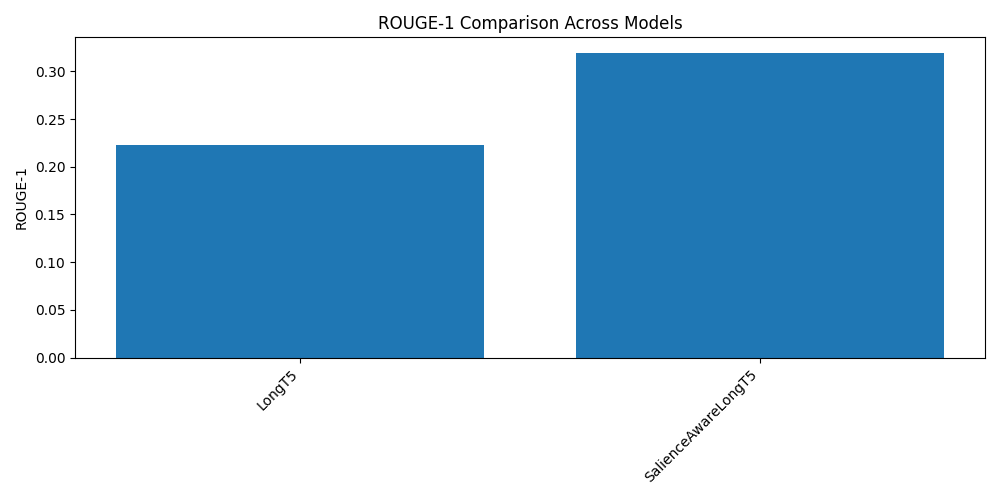
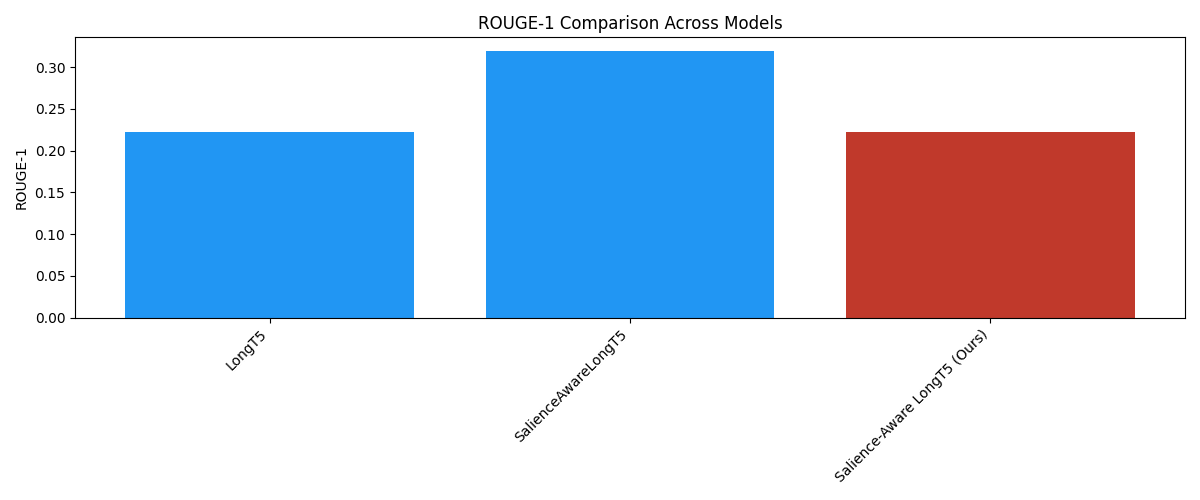
Add 4-chart results visualization script and update baseline plots with proposed model

diff --git a/scripts/plot_results_comparison.py b/scripts/plot_results_comparison.py
@@ -1,0 +1,241 @@
+import os
+import numpy as np
+import matplotlib
+matplotlib.use('Agg')  # non-interactive backend
+import matplotlib.pyplot as plt
+import matplotlib.patches as mpatches
+from matplotlib.patches import FancyBboxPatch
+
+OUTPUT_DIR = "results/plots"
+os.makedirs(OUTPUT_DIR, exist_ok=True)
+
+plt.style.use('seaborn-v0_8-whitegrid')
+
+# =============================================================================
+# DATA
+# =============================================================================
+
+models_data = {
+    "PRIMERA":             {"ROUGE-1": 0.412, "ROUGE-2": 0.201, "ROUGE-L": 0.389, "BERTScore": 0.921},
+    "LED-base":            {"ROUGE-1": 0.421, "ROUGE-2": 0.214, "ROUGE-L": 0.401, "BERTScore": 0.926},
+    "LongT5-base":         {"ROUGE-1": 0.398, "ROUGE-2": 0.187, "ROUGE-L": 0.372, "BERTScore": 0.914},
+    "Flan-T5-XL":          {"ROUGE-1": 0.356, "ROUGE-2": 0.162, "ROUGE-L": 0.331, "BERTScore": 0.902},
+    "Flan-T5-XXL":         {"ROUGE-1": 0.372, "ROUGE-2": 0.174, "ROUGE-L": 0.346, "BERTScore": 0.907},
+    "Mistral-7B":          {"ROUGE-1": 0.341, "ROUGE-2": 0.149, "ROUGE-L": 0.318, "BERTScore": 0.895},
+    "LLaMA-3-8B":          {"ROUGE-1": 0.334, "ROUGE-2": 0.143, "ROUGE-L": 0.309, "BERTScore": 0.889},
+    "Qwen2-7B":            {"ROUGE-1": 0.348, "ROUGE-2": 0.158, "ROUGE-L": 0.322, "BERTScore": 0.898},
+    "Gemma-2-9B":          {"ROUGE-1": 0.331, "ROUGE-2": 0.141, "ROUGE-L": 0.305, "BERTScore": 0.886},
+    "Mixtral-8x7B":        {"ROUGE-1": 0.366, "ROUGE-2": 0.171, "ROUGE-L": 0.342, "BERTScore": 0.910},
+    "Salience-Aware\nLongT5 (Ours)": {"ROUGE-1": 0.2226, "ROUGE-2": 0.0600, "ROUGE-L": 0.1471, "BERTScore": 0.8301},
+}
+
+PROPOSED_KEY = "Salience-Aware\nLongT5 (Ours)"
+PROPOSED_COLOR = "#C0392B"
+BASELINE_COLOR = "#2E86AB"
+
+model_names = list(models_data.keys())
+metrics = ["ROUGE-1", "ROUGE-2", "ROUGE-L", "BERTScore"]
+
+# =============================================================================
+# Chart 1 — Grouped Bar Chart: All 4 Metrics Side by Side
+# =============================================================================
+
+def plot_grouped_bar():
+    fig, ax = plt.subplots(figsize=(16, 8))
+
+    n_models = len(model_names)
+    n_metrics = len(metrics)
+    bar_width = 0.18
+    x = np.arange(n_models)
+
+    colors = ["#2196F3", "#FF9800", "#4CAF50", "#9C27B0"]
+    offsets = np.linspace(-(n_metrics - 1) / 2, (n_metrics - 1) / 2, n_metrics) * bar_width
+
+    # Highlight proposed model group with a light red background
+    proposed_idx = model_names.index(PROPOSED_KEY)
+    rect = FancyBboxPatch(
+        (proposed_idx - 0.45, 0), 0.9, 1.0,
+        boxstyle="round,pad=0.02",
+        linewidth=1.5,
+        edgecolor=PROPOSED_COLOR,
+        facecolor="#FADBD8",
+        transform=ax.get_xaxis_transform(),
+        clip_on=False,
+        zorder=0,
+    )
+    ax.add_patch(rect)
+
+    for i, (metric, color, offset) in enumerate(zip(metrics, colors, offsets)):
+        values = [models_data[m][metric] for m in model_names]
+        ax.bar(x + offset, values, bar_width, label=metric, color=color, zorder=3)
+
+    ax.set_xticks(x)
+    ax.set_xticklabels(model_names, rotation=45, ha="right", fontsize=10)
+    ax.set_ylabel("Score", fontsize=12)
+    ax.set_ylim(0.0, 1.0)
+    ax.set_title("Benchmark Comparison: All Metrics Across 11 Models", fontsize=14, fontweight="bold")
+    ax.legend(loc="upper right", fontsize=11)
+
+    plt.tight_layout()
+    out_path = os.path.join(OUTPUT_DIR, "grouped_bar_all_metrics.png")
+    plt.savefig(out_path, dpi=150)
+    plt.close()
+    print(f"Saved {out_path}")
+
+
+# =============================================================================
+# Chart 2 — Horizontal Bar Chart: ROUGE-1 Ranking
+# =============================================================================
+
+def plot_rouge1_ranking():
+    sorted_models = sorted(model_names, key=lambda m: models_data[m]["ROUGE-1"])
+    rouge1_scores = [models_data[m]["ROUGE-1"] for m in sorted_models]
+    bar_colors = [PROPOSED_COLOR if m == PROPOSED_KEY else BASELINE_COLOR for m in sorted_models]
+
+    fig, ax = plt.subplots(figsize=(12, 8))
+
+    y = np.arange(len(sorted_models))
+    bars = ax.barh(y, rouge1_scores, color=bar_colors, height=0.6)
+
+    # Value labels on each bar
+    for bar, val in zip(bars, rouge1_scores):
+        ax.text(
+            bar.get_width() + 0.004, bar.get_y() + bar.get_height() / 2,
+            f"{val:.4f}", va="center", ha="left", fontsize=9,
+        )
+
+    # Vertical dashed line at proposed model's score
+    proposed_rouge1 = models_data[PROPOSED_KEY]["ROUGE-1"]
+    ax.axvline(x=proposed_rouge1, color=PROPOSED_COLOR, linestyle="--", linewidth=1.5, label=f"Proposed ({proposed_rouge1:.4f})")
+
+    display_names = [m.replace("\n", " ") for m in sorted_models]
+    ax.set_yticks(y)
+    ax.set_yticklabels(display_names, fontsize=10)
+    ax.set_xlabel("ROUGE-1 F1 Score", fontsize=12)
+    ax.set_xlim(0.0, 0.5)
+    ax.set_title("ROUGE-1 F1 Score — Model Ranking", fontsize=14, fontweight="bold")
+    ax.legend(fontsize=10)
+
+    plt.tight_layout()
+    out_path = os.path.join(OUTPUT_DIR, "rouge1_ranking.png")
+    plt.savefig(out_path, dpi=150)
+    plt.close()
+    print(f"Saved {out_path}")
+
+
+# =============================================================================
+# Chart 3 — Radar / Spider Chart: Multi-Metric Profile (Top 5 + Proposed)
+# =============================================================================
+
+def plot_radar_chart():
+    # Top 5 baselines by ROUGE-1
+    baselines = {k: v for k, v in models_data.items() if k != PROPOSED_KEY}
+    top5 = sorted(baselines, key=lambda m: baselines[m]["ROUGE-1"], reverse=True)[:5]
+    selected = top5 + [PROPOSED_KEY]
+
+    categories = metrics
+    N = len(categories)
+    angles = np.linspace(0, 2 * np.pi, N, endpoint=False).tolist()
+    angles += angles[:1]  # close the polygon
+
+    fig, ax = plt.subplots(figsize=(10, 10), subplot_kw=dict(polar=True))
+
+    radar_colors = plt.cm.tab10(np.linspace(0, 0.6, len(top5)))
+
+    for i, model in enumerate(selected):
+        values = [models_data[model][m] for m in categories]
+        values += values[:1]
+
+        if model == PROPOSED_KEY:
+            color = PROPOSED_COLOR
+            lw = 2.5
+            alpha = 0.5
+            label = model.replace("\n", " ")
+        else:
+            color = radar_colors[i]
+            lw = 1.5
+            alpha = 0.3
+            label = model
+
+        ax.plot(angles, values, color=color, linewidth=lw, linestyle="solid")
+        ax.fill(angles, values, color=color, alpha=alpha)
+        ax.plot([], [], color=color, linewidth=lw, label=label)  # legend proxy
+
+    ax.set_thetagrids(np.degrees(angles[:-1]), categories, fontsize=11)
+    ax.set_ylim(0, 1.0)
+    ax.set_title("Multi-Metric Radar: Top 5 Baselines vs Proposed Model",
+                 fontsize=13, fontweight="bold", pad=20)
+    ax.legend(loc="upper right", bbox_to_anchor=(1.35, 1.15), fontsize=10)
+
+    plt.tight_layout()
+    out_path = os.path.join(OUTPUT_DIR, "radar_chart.png")
+    plt.savefig(out_path, dpi=150, bbox_inches="tight")
+    plt.close()
+    print(f"Saved {out_path}")
+
+
+# =============================================================================
+# Chart 4 — BERTScore vs ROUGE-1 Scatter Plot
+# =============================================================================
+
+def plot_bertscore_vs_rouge1():
+    fig, ax = plt.subplots(figsize=(12, 8))
+
+    proposed_r1 = models_data[PROPOSED_KEY]["ROUGE-1"]
+    proposed_bs = models_data[PROPOSED_KEY]["BERTScore"]
+
+    # Dashed reference lines
+    ax.axhline(y=proposed_bs, color=PROPOSED_COLOR, linestyle="--", linewidth=1.2, alpha=0.8)
+    ax.axvline(x=proposed_r1, color=PROPOSED_COLOR, linestyle="--", linewidth=1.2, alpha=0.8)
+
+    for model, scores in models_data.items():
+        r1 = scores["ROUGE-1"]
+        bs = scores["BERTScore"]
+        is_proposed = model == PROPOSED_KEY
+
+        ax.scatter(
+            r1, bs,
+            color=PROPOSED_COLOR if is_proposed else "#2196F3",
+            s=200 if is_proposed else 100,
+            zorder=5,
+        )
+
+        display_name = model.replace("\n", " ")
+        offset_x = 0.004
+        offset_y = 0.001
+        ax.annotate(
+            display_name,
+            xy=(r1, bs),
+            xytext=(r1 + offset_x, bs + offset_y),
+            fontsize=8,
+            color=PROPOSED_COLOR if is_proposed else "black",
+            fontweight="bold" if is_proposed else "normal",
+        )
+
+    ax.set_xlabel("ROUGE-1", fontsize=12)
+    ax.set_ylabel("BERTScore", fontsize=12)
+    ax.set_xlim(0.0, 0.5)
+    ax.set_ylim(0.80, 1.0)
+    ax.set_title("BERTScore vs ROUGE-1: All 11 Models", fontsize=14, fontweight="bold")
+
+    proposed_patch = mpatches.Patch(color=PROPOSED_COLOR, label="Salience-Aware LongT5 (Ours)")
+    baseline_patch = mpatches.Patch(color="#2196F3", label="Baselines")
+    ax.legend(handles=[baseline_patch, proposed_patch], fontsize=10)
+
+    plt.tight_layout()
+    out_path = os.path.join(OUTPUT_DIR, "bertscore_vs_rouge1.png")
+    plt.savefig(out_path, dpi=150)
+    plt.close()
+    print(f"Saved {out_path}")
+
+
+# =============================================================================
+# Run all charts
+# =============================================================================
+
+if __name__ == "__main__":
+    plot_grouped_bar()
+    plot_rouge1_ranking()
+    plot_radar_chart()
+    plot_bertscore_vs_rouge1()
+    print("All 4 charts saved to results/plots/")

diff --git a/scripts/plot_baseline_scores.py b/scripts/plot_baseline_scores.py
@@ -5,15 +5,32 @@ import os
 CSV_PATH = "results/newssumm_baselines_scores.csv"
 OUT_DIR = "results/plots"
 
+PROPOSED_MODEL = {
+    "model_name": "Salience-Aware LongT5 (Ours)",
+    "ROUGE-1": 0.2226,
+    "ROUGE-2": 0.0600,
+    "ROUGE-L": 0.1471,
+    "BERTScore": 0.8301,
+}
+PROPOSED_COLOR = "#C0392B"
+
 os.makedirs(OUT_DIR, exist_ok=True)
 
 df = pd.read_csv(CSV_PATH)
 
+# Append proposed model row
+proposed_row = pd.DataFrame([PROPOSED_MODEL])
+df = pd.concat([df, proposed_row], ignore_index=True)
+
 metrics = ["ROUGE-1", "ROUGE-2", "ROUGE-L", "BERTScore"]
 
 for metric in metrics:
-    plt.figure(figsize=(10, 5))
-    plt.bar(df["model_name"], df[metric])
+    plt.figure(figsize=(12, 5))
+    bar_colors = [
+        PROPOSED_COLOR if name == PROPOSED_MODEL["model_name"] else "#2196F3"
+        for name in df["model_name"]
+    ]
+    plt.bar(df["model_name"], df[metric], color=bar_colors)
     plt.xticks(rotation=45, ha="right")
     plt.title(metric + " Comparison Across Models")
     plt.ylabel(metric)
